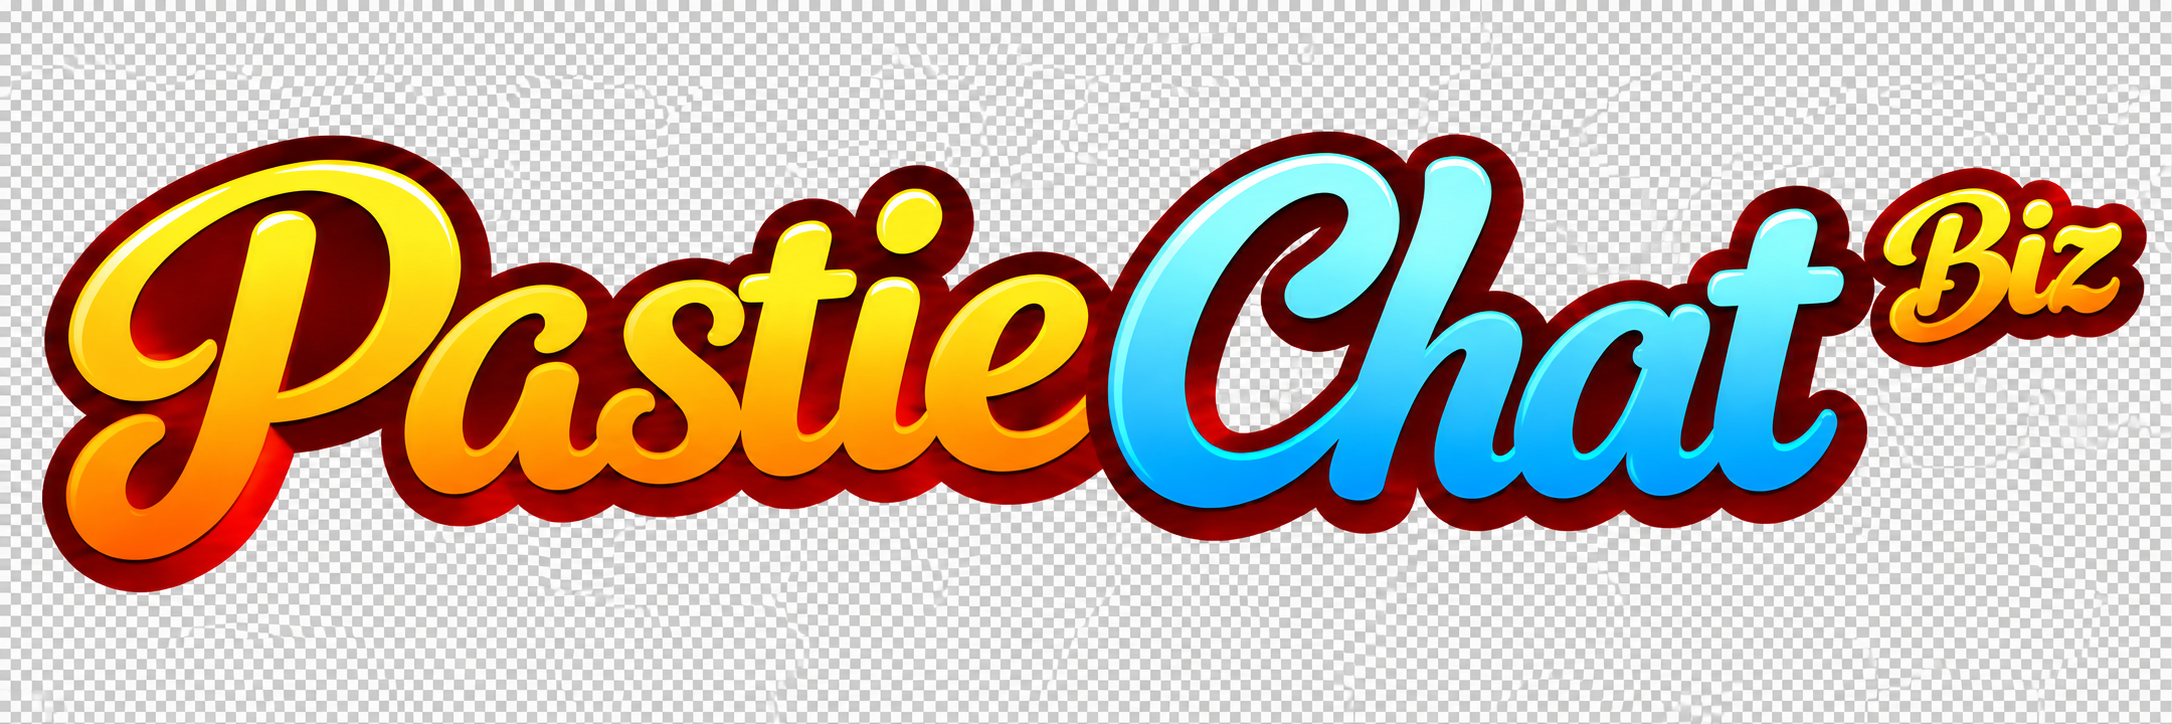
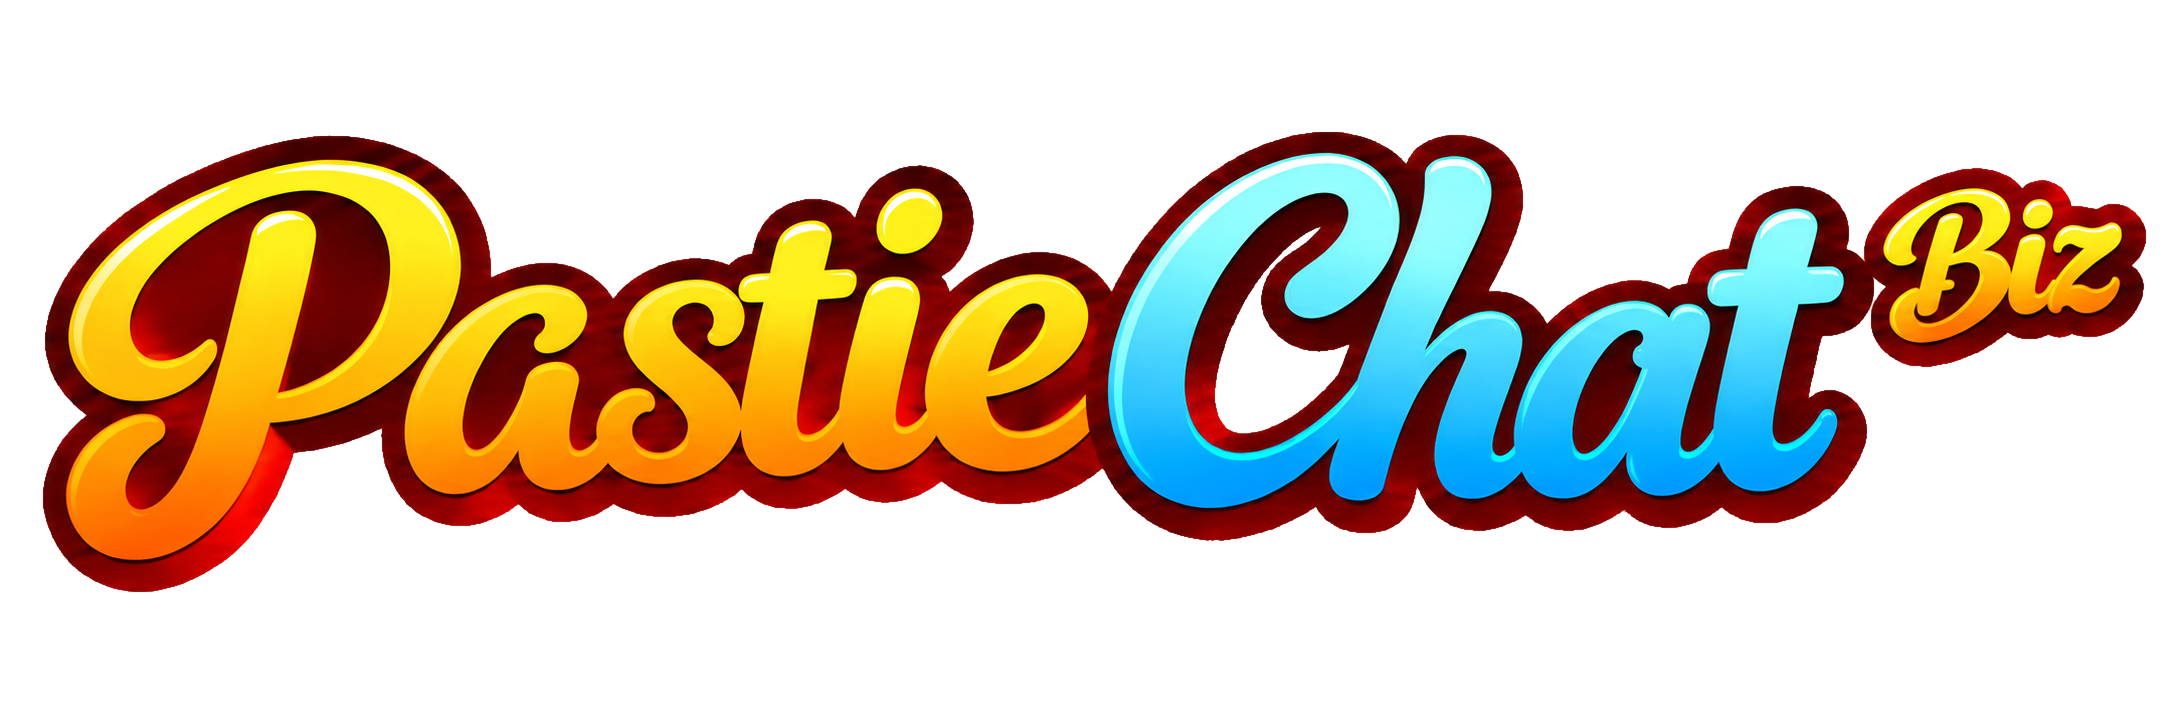
feat: add server dashboard admin interface, styling, and helper scripts

diff --git a/server-dashboard/public/admin.js b/server-dashboard/public/admin.js
@@ -9,8 +9,9 @@
 // --- Translation Dictionary ---
 const TRANSLATIONS = {
     vi: {
-        loginTitle: "Không rào cản ngôn ngữ, thấu hiểu mọi khách hàng",
+        loginTitle: "Không rào cản ngôn ngữ\nThấu hiểu mọi khách hàng",
         loginSubtitle: "Nhập email để kết nối Pastie Chat",
+        googleLoginBtn: "Đăng nhập bằng Gmail",
         passwordPlaceholder: "Mật khẩu bảo mật...",
         loginError: "Mật khẩu không hợp lệ, vui lòng thử lại.",
         loginBtn: "Kết Nối Console",
@@ -82,8 +83,9 @@ const TRANSLATIONS = {
         msgStatusSeenAt: "Đã xem lúc {t}"
     },
     en: {
-        loginTitle: "Pastie AI Admin",
-        loginSubtitle: "Enter admin password to connect console",
+        loginTitle: "No Language Barriers\nUnderstanding Every Guest",
+        loginSubtitle: "Enter admin email to connect console",
+        googleLoginBtn: "Sign in with Gmail",
         passwordPlaceholder: "Secure password...",
         loginError: "Invalid password, please try again.",
         loginBtn: "Connect Console",
@@ -155,8 +157,9 @@ const TRANSLATIONS = {
         msgStatusSeenAt: "Seen at {t}"
     },
     ru: {
-        loginTitle: "Панель Pastie AI",
-        loginSubtitle: "Введите пароль администратора для подключения",
+        loginTitle: "Без языковых барьеров\nПонимание каждого гостя",
+        loginSubtitle: "Введите email администратора для подключения",
+        googleLoginBtn: "Войти через Gmail",
         passwordPlaceholder: "Пароль...",
         loginError: "Неверный пароль, попробуйте еще раз.",
         loginBtn: "Войти в консоль",
@@ -228,8 +231,9 @@ const TRANSLATIONS = {
         msgStatusSeenAt: "Просмотрено в {t}"
     },
     zh: {
-        loginTitle: "Pastie AI 管理员",
-        loginSubtitle: "输入管理员密码以连接控制台",
+        loginTitle: "跨越语言障碍\n理解每一位顾客",
+        loginSubtitle: "输入管理员邮箱以连接控制台",
+        googleLoginBtn: "使用 Gmail 登录",
         passwordPlaceholder: "安全密码...",
         loginError: "密码无效，请重试。",
         loginBtn: "连接控制台",
@@ -301,8 +305,9 @@ const TRANSLATIONS = {
         msgStatusSeenAt: "已读于 {t}"
     },
     ko: {
-        loginTitle: "Pastie AI 관리자",
-        loginSubtitle: "콘솔에 접속하려면 관리자 비밀번호를 입력하세요",
+        loginTitle: "언어 장벽 없이\n모든 고객을 이해합니다",
+        loginSubtitle: "콘솔에 접속하려면 관리자 이메일을 입력하세요",
+        googleLoginBtn: "Gmail로 로그인",
         passwordPlaceholder: "보안 비밀번호...",
         loginError: "비밀번호가 올바르지 않습니다. 다시 시도해 주세요.",
         loginBtn: "콘솔 접속",

diff --git a/server-dashboard/public/admin.html b/server-dashboard/public/admin.html
@@ -38,8 +38,8 @@
         <div class="dpq-login-card">
             <!-- Brand Logo -->
             <div class="dpq-brand-header">
-                <img src="/logoApp.png?v=2" alt="Pastie AI" class="dpq-brand-logo">
-                <h2 id="dpq-login-title" class="dpq-title" data-i18n="loginTitle">Pastie AI Console</h2>
+                <img src="/pastie-chat-biz-compact.png?v=2" alt="Pastie Chat" class="dpq-brand-logo">
+                <h2 id="dpq-login-title" class="dpq-title" data-i18n="loginTitle">Không rào cản ngôn ngữ<br>Thấu hiểu mọi khách hàng</h2>
                 <p id="dpq-login-subtitle" class="dpq-subtitle" data-i18n="loginSubtitle">Hệ thống quản trị & CSKH đa kênh AI</p>
             </div>
 
@@ -99,7 +99,7 @@
                     <div id="google-signin-btn-container" class="dpq-google-slot"></div>
                     <button type="button" id="google-auth-trigger-btn" class="dpq-google-btn" onclick="handleGoogleAuthTrigger()">
                         <svg class="dpq-google-icon" viewBox="0 0 24 24"><path fill="#4285F4" d="M23.745 12.27c0-.7-.06-1.4-.19-2.07H12v4.51h6.6c-.29 1.52-1.14 2.82-2.4 3.68v3.05h3.88c2.27-2.09 3.66-5.17 3.66-9.17z"/><path fill="#34A853" d="M12 24c3.24 0 5.95-1.08 7.93-2.91l-3.88-3.05c-1.08.72-2.45 1.16-4.05 1.16-3.12 0-5.77-2.1-6.72-4.93H1.24v3.15C3.26 21.36 7.34 24 12 24z"/><path fill="#FBBC05" d="M5.28 14.27c-.25-.72-.38-1.49-.38-2.27s.13-1.55.38-2.27V6.58H1.24C.45 8.15 0 9.92 0 12s.45 3.85 1.24 5.42l4.04-3.15z"/><path fill="#EA4335" d="M12 4.75c1.77 0 3.35.61 4.6 1.8l3.42-3.42C17.95 1.19 15.24 0 12 0 7.34 0 3.26 2.64 1.24 6.58l4.04 3.15c.95-2.83 3.6-4.98 6.72-4.98z"/></svg>
-                        <span>Tiếp tục sử dụng dịch vụ bằng Google</span>
+                        <span data-i18n="googleLoginBtn">Đăng nhập bằng Gmail</span>
                     </button>
                 </div>
             </div>
@@ -138,7 +138,7 @@
         <header class="dashboard-header glass-panel">
             <div class="header-left">
                 <div class="logo">
-                    <img src="/logoApp.png?v=2" alt="Pastie" class="logo-img">
+                    <img src="/pastie-chat-biz-compact.png?v=2" alt="Pastie Chat" class="logo-img">
                     <span id="console-brand-name" class="hide"></span>
                 </div>
                 <!-- Tên hiển thị của Agent / Sale -->
@@ -332,7 +332,7 @@
             </div>
             <!-- Wordmark chỉ hiện ở header Agent/Sale, cùng vị trí góc phải
                  phía dưới như header cổng khách. -->
-            <img class="staff-header-wordmark" src="/pastie-logo@2x.png?v=2" alt="Pastie Chat">
+            <img class="staff-header-wordmark" src="/pastie-chat-biz-compact.png?v=2" alt="Pastie Chat">
         </header>
 
 

diff --git a/server-dashboard/public/admin.css b/server-dashboard/public/admin.css
@@ -2726,20 +2726,21 @@ button:focus-visible {
 }
 
 .dpq-brand-logo {
-  height: 64px;
+  height: 52px;
   width: auto;
-  max-width: 180px;
+  max-width: 220px;
   object-fit: contain;
   margin: 0 auto 14px;
   display: block;
 }
 
 .dpq-title {
-  font-size: 22px;
+  font-size: 20px;
   font-weight: 800;
   color: #111827;
-  line-height: 1.3;
+  line-height: 1.35;
   margin: 0 0 6px;
+  white-space: pre-line;
 }
 
 .dpq-subtitle {
@@ -2987,15 +2988,31 @@ button:focus-visible {
 
 /* Google Button - Pill shape DealPhuQuoc */
 .dpq-google-wrapper {
+  position: relative;
+  width: 100%;
   display: flex;
-  flex-direction: column;
-  align-items: center;
+  justify-content: center;
 }
 
 .dpq-google-slot {
+  position: absolute;
+  inset: 0;
+  width: 100%;
+  height: 100%;
+  opacity: 0.001;
+  z-index: 2;
+  overflow: hidden;
   display: flex;
   justify-content: center;
-  width: 100%;
+  align-items: center;
+}
+
+.dpq-google-slot iframe {
+  width: 100% !important;
+  height: 100% !important;
+  transform: scale(1.15);
+  transform-origin: center center;
+  cursor: pointer !important;
 }
 
 .dpq-google-btn {

diff --git a/server-dashboard/resend-helper.js b/server-dashboard/resend-helper.js
@@ -33,7 +33,7 @@ async function sendOTPEmail(toEmail, otpCode) {
 
   const sender = process.env.SENDER_EMAIL || 'onboarding@resend.dev';
   const baseUrl = getBaseUrl();
-  const logoUrl = `${baseUrl}/logoApp.png`;
+  const logoUrl = `${baseUrl}/pastie-chat-biz-compact.png`;
 
   try {
     const data = await resendClient.emails.send({
@@ -128,7 +128,7 @@ async function sendAdminOTPEmail(toEmail, otpCode, recipientName = 'Quản trị
 
   const sender = process.env.SENDER_EMAIL || 'onboarding@resend.dev';
   const baseUrl = getBaseUrl();
-  const logoUrl = `${baseUrl}/logoApp.png`;
+  const logoUrl = `${baseUrl}/pastie-chat-biz-compact.png`;
 
   try {
     const data = await resendClient.emails.send({
@@ -224,7 +224,7 @@ async function sendAccountActivationEmail({ toEmail, fullName, role, createdByNa
 
   const sender = process.env.SENDER_EMAIL || 'onboarding@resend.dev';
   const baseUrl = getBaseUrl();
-  const logoUrl = `${baseUrl}/logoApp.png`;
+  const logoUrl = `${baseUrl}/pastie-chat-biz-compact.png`;
   const guideUrl = `${baseUrl}/guide`;
 
   const roleNameMap = {

diff --git a/server-dashboard/public/core.js b/server-dashboard/public/core.js
@@ -369,9 +369,8 @@ async function initGoogleAuth() {
                             width: 340
                         });
                     } catch(e) {}
-                    if (customBtn && slot.childElementCount > 0) {
-                        customBtn.classList.add('hide');
-                    }
+                    // Giữ customBtn luôn hiển thị chữ "Đăng nhập bằng Gmail",
+                    // slot Google iframe trong CSS được phủ lên trên để nhận click trực tiếp.
                 }
             }
         };

diff --git a/server-dashboard/public/org-console.js b/server-dashboard/public/org-console.js
@@ -118,7 +118,7 @@ async function createBrandedQrPoster(imageUrl, businessName) {
     }
     const [qrImage, logoImage] = await Promise.all([
         loadPosterImage(imageUrl),
-        loadPosterImage('/pastie-logo@2x.png'),
+        loadPosterImage('/pastie-chat-biz-compact.png'),
     ]);
     const canvas = document.createElement('canvas');
     // Poster 4:5 nhỏ gọn để in bảng để bàn/giấy nhỏ, không dùng tỷ lệ A4.
